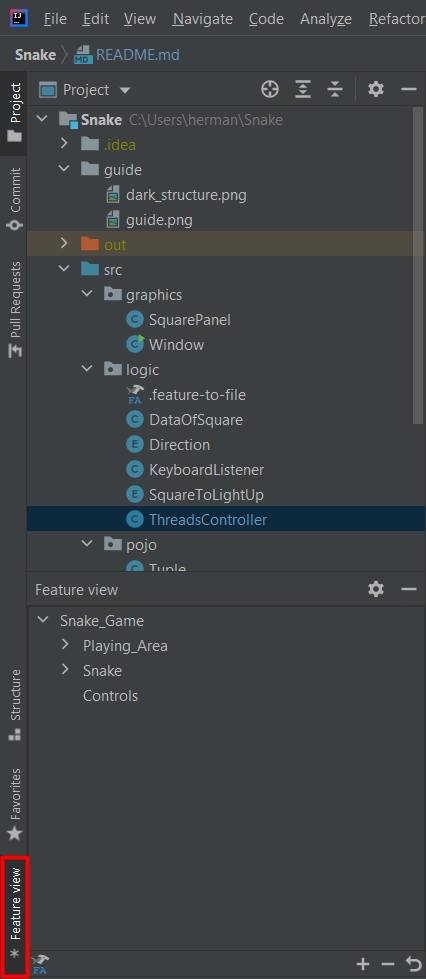
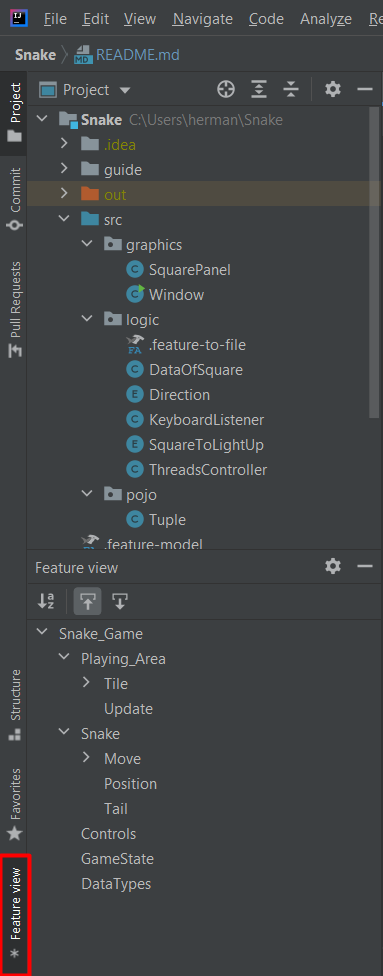
Updated README

diff --git a/README.md b/README.md
@@ -82,23 +82,7 @@ feature names, and their hierarchy in textual form. These are all the features p
 be referenced by mapping them to code by using the annotations described below. The feature model below is contains 
 all features present in the Snake game.
 
-```featuremodel
-Snake_Game
-    Playing_Area
-        Tile
-            Food
-                Spawn
-            Blank
-            Snake
-        Update
-    Snake
-        Move
-            Collision
-        Head
-        Tail
-    Controls
-    GameState
-```
+![alt tag](./guide/feature_model.png)
 
 ### Feature Reference Names
 
@@ -107,10 +91,7 @@ features uniquely the individual feature is pre-extended with its ancestor until
 unique (separated by "::"). This technique is called Least-Partially-Qualified name, short LPQ. The feature `Snake` 
 is mentioned twice above and must therefore be referenced uniquely in the manner below.
 
-```folderannotation
-Tile::Snake
-Snake_Game::Snake
-```
+![alt tag](./guide/lpq.png)
 
 ### Feature-to-code mapping
 
@@ -130,10 +111,7 @@ the given feature references. The mapping file must be stored in the same folder
 only the file in this folder. In the example below each feature is mapped to the file listed above. Additional
 mappings can be added beneath existing mappings in the file.
 
-```fileannotation
-Direction.java
-Controls, Move
-```
+![alt tag](./guide/file_annotation.png)
 
 ### Feature-to-folder mapping
 
@@ -144,9 +122,7 @@ mapping. The mapping file is located on the top level inside the to be annotated
 a feature relates to all code in a folder, then it could be mapped by writing the feature name in a file with the 
 extension `.feature-to-folder` as below. Features must be separated by either spaces or new lines
 
-```folderannotation
-Example
-```
+![alt tag](./guide/folder_annotation.png)
 
 ### Feature View
 
